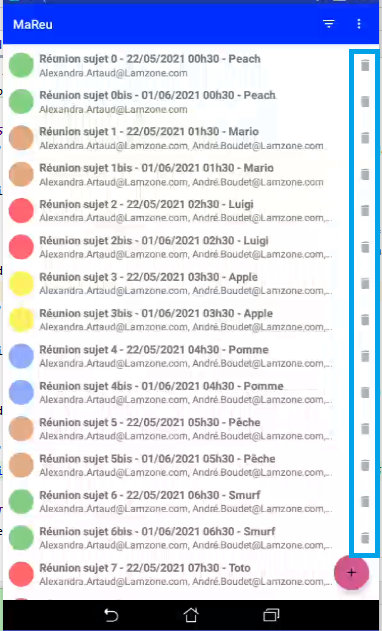
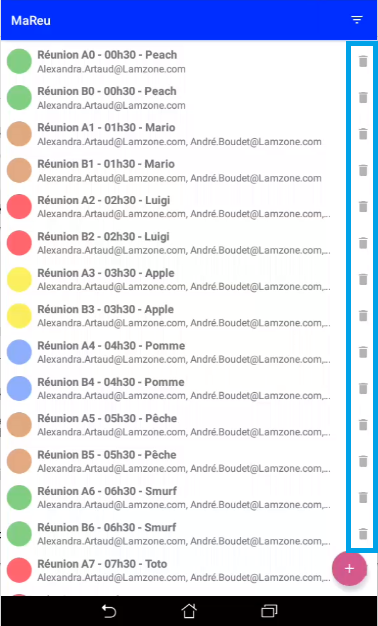
Suppression : - Event AddMeeting - Options de tri - Blocs de code commentés
Modification :
- Date+heure remplacé par heure seulement dans MeetingListAdapter.java
- Charte graphique : FAB dans MainActivity et AddMeetingFragment ; Date&Time pickers dans AddMeetingFragment.
- findViewById remplacé par méthode de ViewBinding pour RecyclerView dans MainFragment
- Simplication de méthode getListeSallesFromLieuxSequence() dans MainFragment
- Mise à jour de README.md avec screenshots

Validation par tests

Changed region(s): [[0.0, 0.0, 1.0, 1.0]]

diff --git a/app/src/main/java/com/companyx/mareu/controller/fragments/AddMeetingFragment.java b/app/src/main/java/com/companyx/mareu/controller/fragments/AddMeetingFragment.java
@@ -193,14 +193,12 @@ public class AddMeetingFragment extends Fragment {
                     @Override
                     public void onDateSet(DatePicker view, int annee, int mois, int jour) {
                         String dateDebut = jour + "/" + (mois + 1) + "/" + annee;
-//                        mBinding.DateHeureDebut.setText(dateDebut);
 
                         TimePickerDialog timePickerDialog = new TimePickerDialog(context,
                                 new TimePickerDialog.OnTimeSetListener() {
                                     @Override
                                     public void onTimeSet(TimePicker view, int heure, int minutes) {
                                         String heureDebut = heure + "h" + minutes;
-//                                        mBinding.DateHeureDebut.append(" " + heureDebut);
                                         mBinding.DateHeureDebut.setText(dateDebut+" " + heureDebut);
                                         mDateHeureDebut = new DateHeure(dateDebut, heureDebut).formatParseDateHeure();
                                     }
@@ -217,7 +215,6 @@ public class AddMeetingFragment extends Fragment {
                     @Override
                     public void onDateSet(DatePicker view, int annee, int mois, int jour) {
                         String dateFin = jour + "/" + (mois + 1) + "/" + annee;
-//                        mBinding.DateHeureFin.setText(dateFin);
 
                         TimePickerDialog timePickerDialog = new TimePickerDialog(context,
                                 new TimePickerDialog.OnTimeSetListener() {
@@ -226,7 +223,6 @@ public class AddMeetingFragment extends Fragment {
                                     public void onTimeSet(TimePicker view, int heure,
                                                           int minutes) {
                                         String heureFin = heure + "h" + minutes;
-//                                        mBinding.DateHeureFin.append(" " + heureFin);
                                         mBinding.DateHeureFin.setText(dateFin +" " + heureFin);
                                         mDateHeureFin = new DateHeure(dateFin, heureFin).formatParseDateHeure();
                                     }
@@ -243,7 +239,6 @@ public class AddMeetingFragment extends Fragment {
 
     private void sendResultToFragmentManager() {
         mReunion = createReunion();
-//        EventBus.getDefault().post(new AddMeetingEvent(mReunion));
 
         Bundle resultat = new Bundle();
         resultat.putSerializable(BUNDLE_EXTRA_MEETING, mReunion);

diff --git a/app/src/main/java/com/companyx/mareu/controller/fragments/MainFragment.java b/app/src/main/java/com/companyx/mareu/controller/fragments/MainFragment.java
@@ -178,7 +178,6 @@ public class MainFragment extends Fragment{
         MeetingListAdapter adapter = new MeetingListAdapter(reunions);
         mRecyclerView.setAdapter(adapter);
 
-//        Log.d(tag, "Nombre items : " + adapter.getItemCount());
         mDates = mDummyApiServiceReunions.getListeDate(mReunionsAffichees);
 
         mNombreReunionsAffichees = mReunionsAffichees.size();

diff --git a/app/src/main/java/com/companyx/mareu/data/DummyApiServiceReunions.java b/app/src/main/java/com/companyx/mareu/data/DummyApiServiceReunions.java
@@ -109,7 +109,6 @@ public class DummyApiServiceReunions implements ApiServiceReunions {
         String[] choix = new String[n + 1];
         lChoix.add(0, "");
         lChoix.toArray(choix);
-//        Log.d("DUMMY_REUNIONS","getListeDate : "+choix.length+"# items : "+(choix.length-1));
         return choix;
     }
 }

diff --git a/app/src/main/java/com/companyx/mareu/controller/activities/FilteringActivity.java b/app/src/main/java/com/companyx/mareu/controller/activities/FilteringActivity.java
@@ -85,7 +85,6 @@ public class FilteringActivity extends AppCompatActivity {
         MenuInflater inflater = getMenuInflater();
         inflater.inflate(R.menu.menu_filter_actions, menu);
         return true;
-//        return super.onCreateOptionsMenu(menu);
     }
 
     @Override
